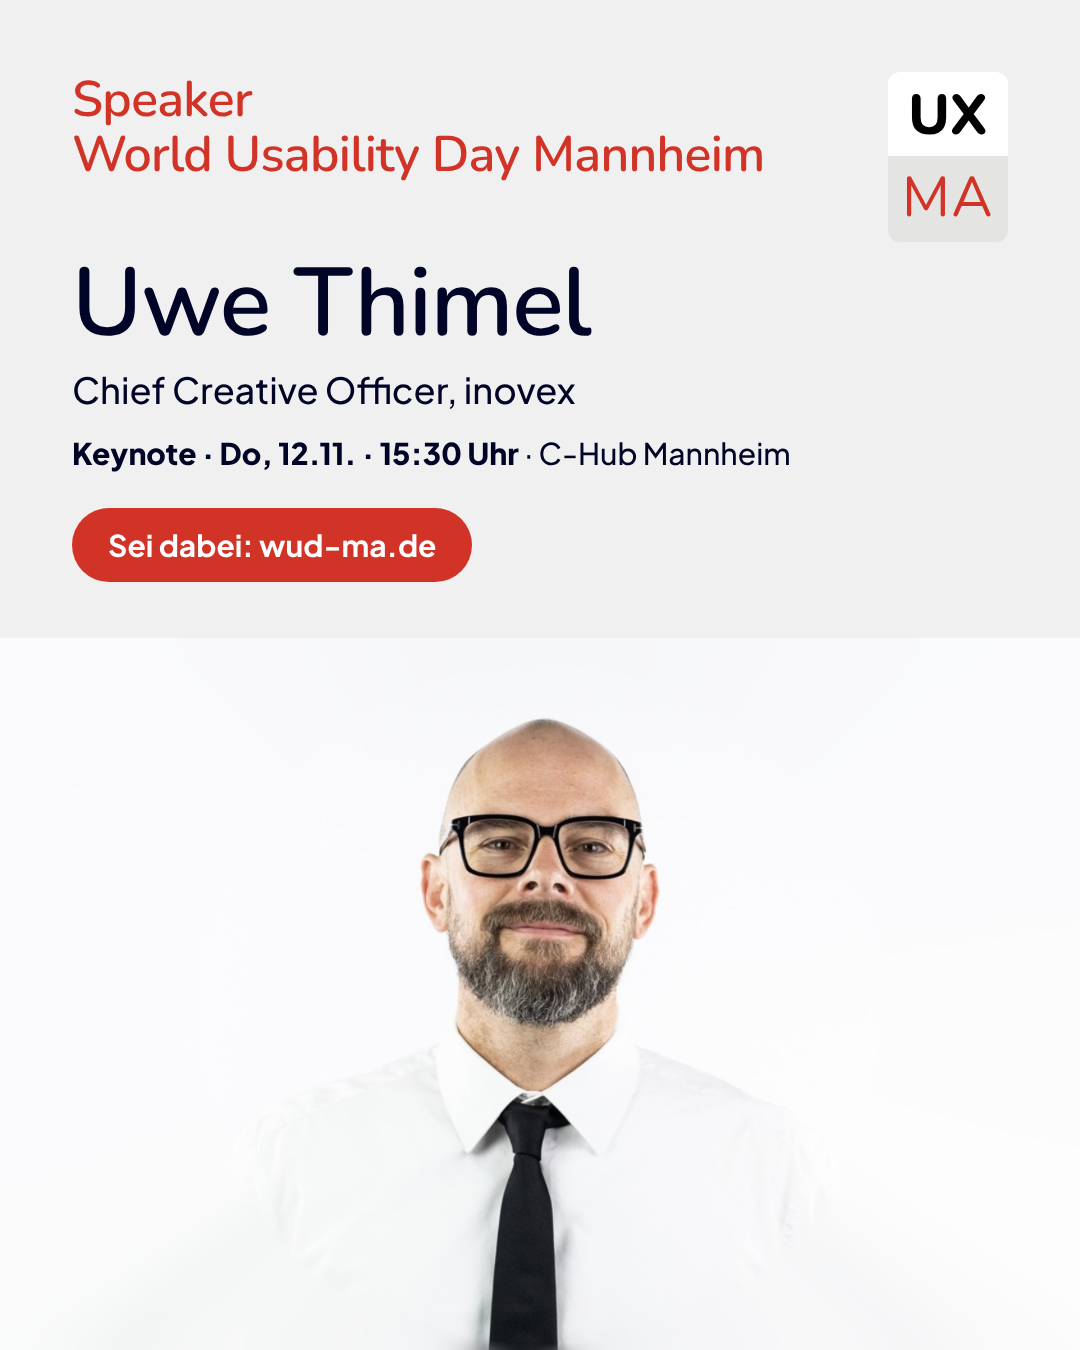
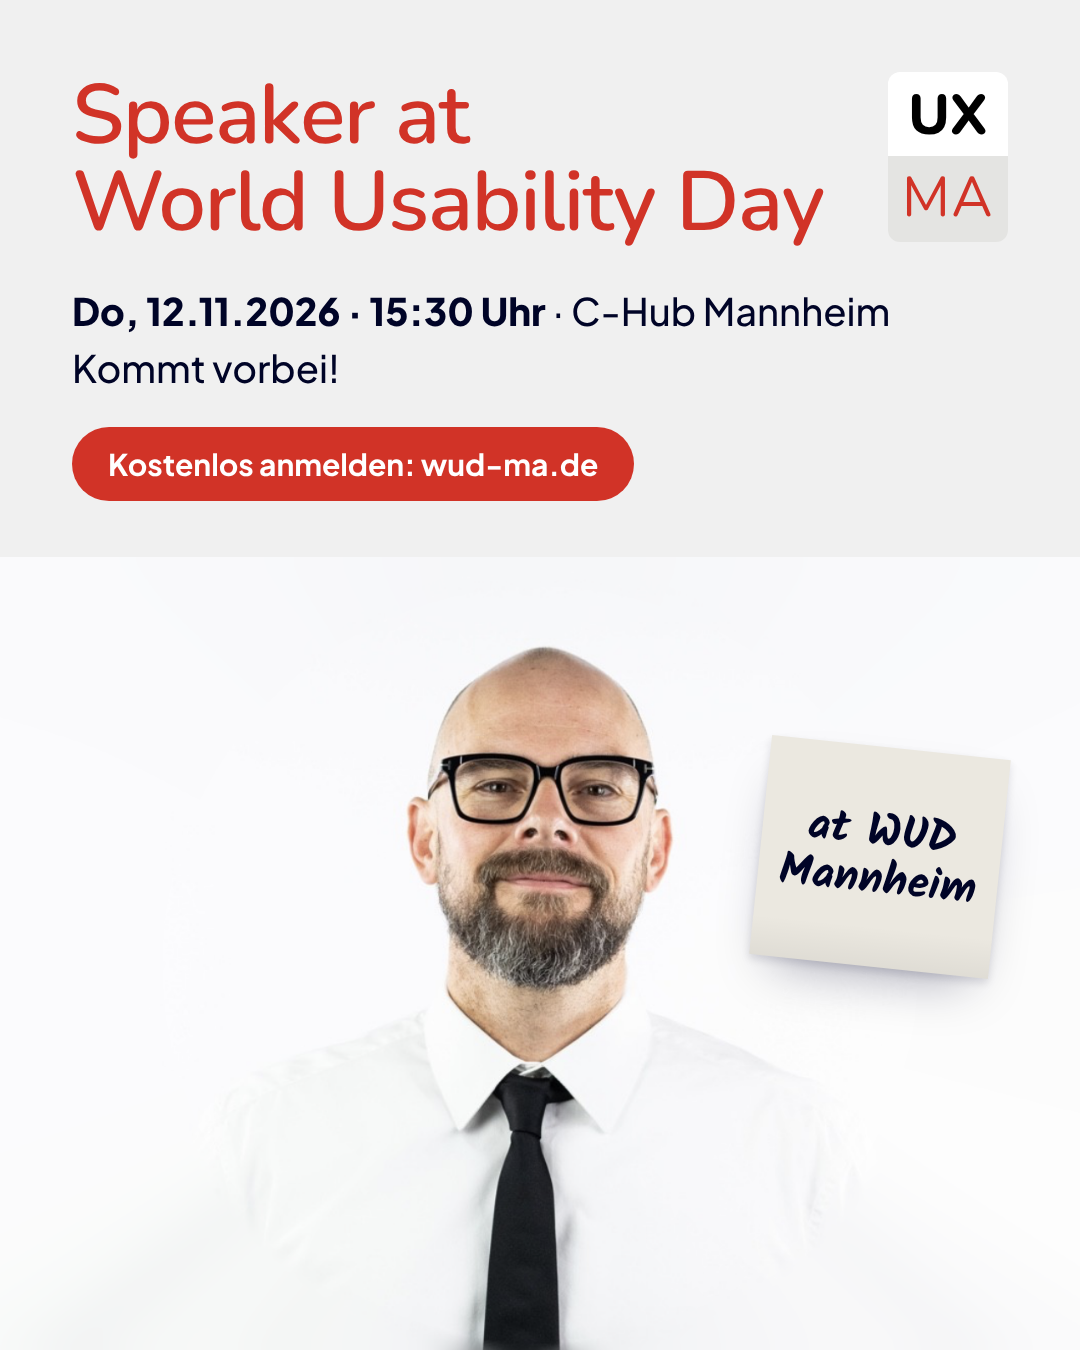
Keynote-Grafik zum Teilen: "Speaker at World Usability Day" statt großem Namen, Post-it auf dem Foto
Claude-Session: https://claude.ai/code/session_01FdBpF3p1XTs9Kowkd1XXbf

Changed region(s): [[0.0611, 0.0622, 0.825, 0.4356], [0.3667, 0.4667, 0.6417, 1.0], [0.6722, 0.5289, 0.9472, 0.7467]]

diff --git a/assets/src/keynote-speaker.html b/assets/src/keynote-speaker.html
@@ -6,7 +6,7 @@
 <link rel="stylesheet" href="brand.css">
 <style>
   /* Zwei Panels: oben Text, unten Foto über die ganze Breite.
-     Varianten per URL-Hash: #sw = Foto schwarz-weiß · #teilen = Button für den Speaker · kombinierbar (#sw-teilen) */
+     Varianten per URL-Hash: #sw = Foto schwarz-weiß · #teilen = Version für den Speaker selbst · kombinierbar (#sw-teilen) */
   body { width: 1080px; height: 1350px; background: var(--white); position: relative; display: flex; flex-direction: column; }
 
   .top { position: relative; padding: 72px 72px 56px; background: var(--grey); }
@@ -28,6 +28,19 @@
   body.sw .photo { background-image: url(img/speaker-uwe-thimel_breit_sw.png); }
 
   .cta { margin-top: 36px; font-size: 30px; padding: 18px 36px; }
+
+  /* Version zum Teilen: kein großer Name, stattdessen „Speaker at …“ + Post-it auf dem Foto */
+  .share { display: none; }
+  body.teilen .orga { display: none; }
+  body.teilen .share { display: block; }
+  body.teilen .pill.share { display: inline-flex; }
+  .share-head { font-size: 84px; color: var(--red); line-height: 1.04; max-width: 800px; }
+  .share-date { margin-top: 40px; font-size: 38px; font-weight: 500; }
+  .share-date b { font-weight: 800; }
+  .share-call { margin-top: 10px; font-size: 38px; font-weight: 500; }
+  .photo { position: relative; }
+  body.teilen .sticky.share { display: flex; }
+  .note-at { left: 760px; top: 190px; width: 240px; height: 220px; font-size: 44px; transform: rotate(6deg); line-height: 1.1; }
 </style>
 </head>
 <body>
@@ -36,22 +49,33 @@
 
   <div class="top">
     <div class="uxma"><div class="ux">UX</div><div class="ma">MA</div></div>
-    <div class="head headline">Speaker<br>World Usability Day Mannheim</div>
-    <div class="head name">Uwe Thimel</div>
-    <div class="role">Chief Creative Officer, inovex</div>
-    <div class="talk" id="talk"></div>
-    <div class="meta"><b>Keynote · Do, 12.11. · 15:30 Uhr</b> · C-Hub Mannheim</div>
-    <div class="pill cta" id="cta">Jetzt anmelden: wud-ma.de</div>
+    <!-- Version für euch -->
+    <div class="orga">
+      <div class="head headline">Speaker<br>World Usability Day Mannheim</div>
+      <div class="head name">Uwe Thimel</div>
+      <div class="role">Chief Creative Officer, inovex</div>
+      <div class="talk" id="talk"></div>
+      <div class="meta"><b>Keynote · Do, 12.11. · 15:30 Uhr</b> · C-Hub Mannheim</div>
+    </div>
+    <div class="pill cta orga">Jetzt anmelden: wud-ma.de</div>
+
+    <!-- Version zum Teilen für den Speaker -->
+    <div class="share">
+      <div class="head share-head">Speaker at<br>World Usability Day</div>
+      <div class="share-date"><b>Do, 12.11.2026 · 15:30 Uhr</b> · C-Hub Mannheim</div>
+      <div class="share-call">Kommt vorbei!</div>
+    </div>
+    <div class="pill cta share">Kostenlos anmelden: wud-ma.de</div>
   </div>
 
-  <div class="photo"></div>
+  <div class="photo"><div class="sticky note-at share">at WUD<br>Mannheim</div></div>
 
   <script>
     const talk = document.getElementById('talk');
     if (TALK_TITLE) { talk.textContent = "„" + TALK_TITLE + "“"; document.body.classList.add('has-talk'); }
     const h = location.hash;
     if (h.includes('sw')) document.body.classList.add('sw');
-    if (h.includes('teilen')) document.getElementById('cta').textContent = 'Sei dabei: wud-ma.de';
+    if (h.includes('teilen')) document.body.classList.add('teilen');
   </script>
 </body>
 </html>

diff --git a/README.md b/README.md
@@ -50,7 +50,7 @@ Versandplan mit Terminen: [`newsletter/README.md`](newsletter/README.md)
 | `…_save-the-date_quadrat_1080x1080.png` | 1 : 1 | Save-the-Date für Instagram & Co. |
 | `…_session-card_linkedin_1080x1350.png` | 4 : 5 | „Was pitchst du?“-Post im Stil der Session Cards |
 | `…_keynote-uwe-thimel_linkedin_1080x1350.png` | 4 : 5 | Keynote-Ankündigung (für euch) |
-| `…_keynote-uwe-thimel_zum-teilen_1080x1350.png` | 4 : 5 | Gleiche Grafik zum Teilen für Uwe (Button „Sei dabei“) |
+| `…_keynote-uwe-thimel_zum-teilen_1080x1350.png` | 4 : 5 | Version zum Teilen für Uwe: „Speaker at World Usability Day“, Post-it „at WUD Mannheim“ |
 | `…_keynote-uwe-thimel_…_sw_1080x1350.png` | 4 : 5 | Beide Varianten mit Foto in Schwarz-Weiß |
 | `…_flyer_a5_mit-beschnitt.pdf` | DIN A5 + 3 mm | Druckbarer Flyer, Vorder- & Rückseite, QR-Code zur Anmeldung |
 | `…_flyer_a5_digital.pdf` | DIN A5 | Gleicher Flyer ohne Beschnittränder – als Mail-Anhang (z. B. Newsletter 1) |
